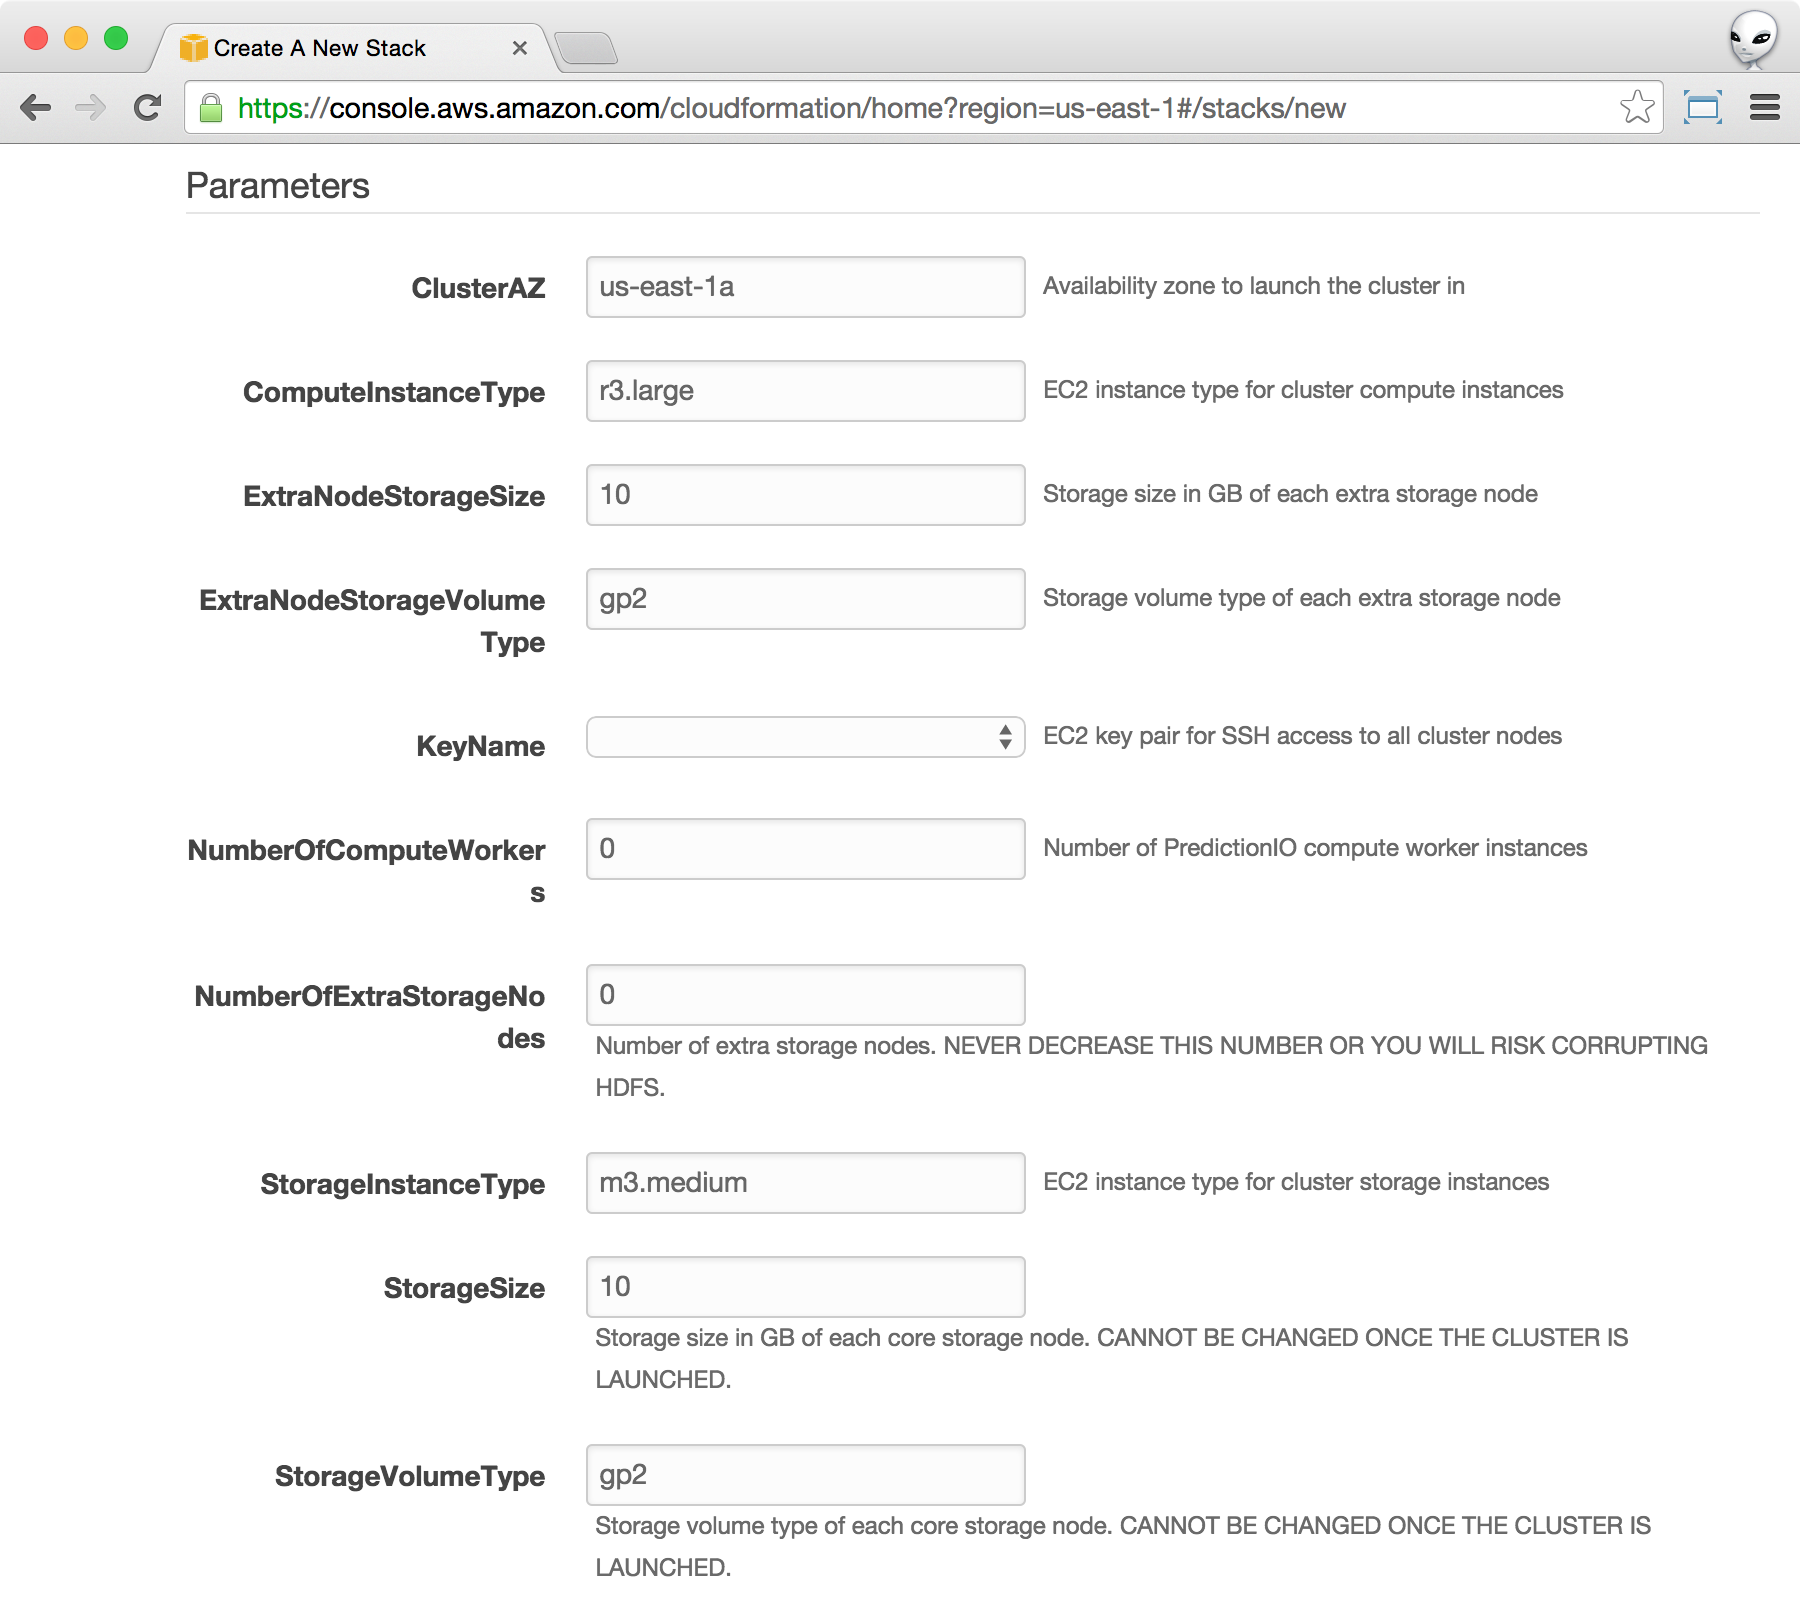
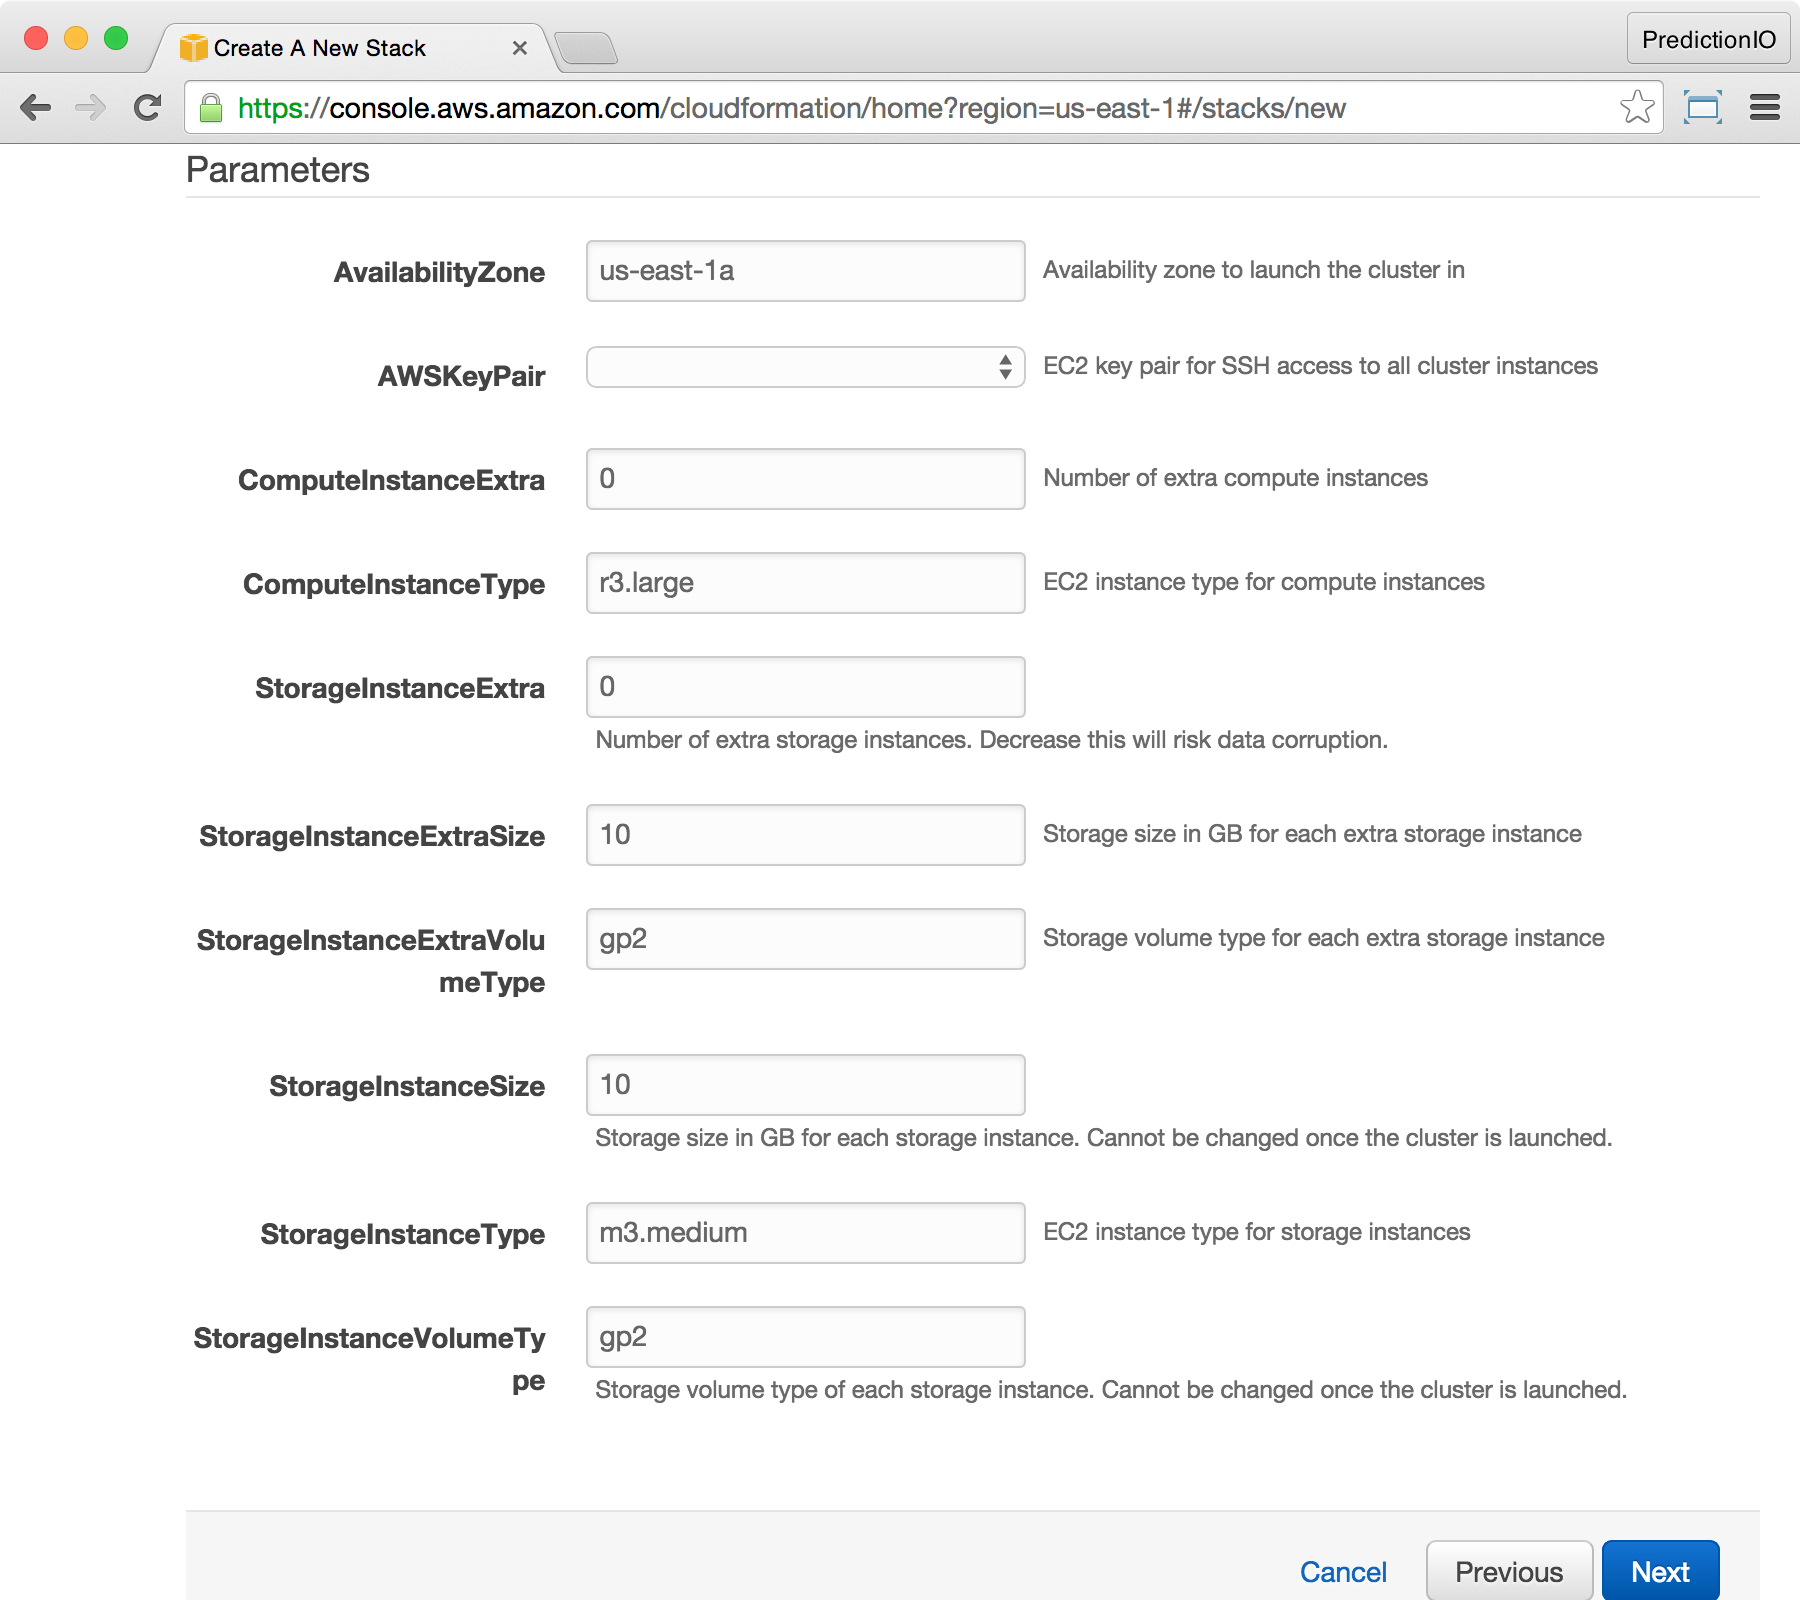
Add scaling cluster instructions

diff --git a/docs/manual/source/production/deploy-cloudformation.html.md b/docs/manual/source/production/deploy-cloudformation.html.md
@@ -9,7 +9,7 @@ You can scale PredictionIO on AWS with [CloudFormation](http://aws.amazon.com/cl
 ###  Instances
 
 The PredictionIO CloudFormation stack creates two types of instance: **compute
-and storage**. By default, the stack will launch **1 compute Instance and 3 Storage instances**. 
+and storage**. By default, the stack will launch **1 compute Instance and 3 Storage instances**.
 
 The compute instance acts as Spark master. You can launch extra compute instances by updating the stack. They will join the master and become slave compute instances as Spark workers. The extra compute instances are fully elastic and can be increased or decreased at anytime.
 
@@ -68,7 +68,7 @@ Click **Next** when you are done.
 
 ### Specify Stack Parameters
 
-The next screen shows the stack parameters. You must enter your AWS SSH key pair. For the other parameters, you can change them to meet your needs or simply use the default values. 
+The next screen shows the stack parameters. You must enter your AWS SSH key pair. For the other parameters, you can change them to meet your needs or simply use the default values.
 
 
 ![Stack Parameters](/images/cloudformation/cf-04.png)
@@ -183,3 +183,103 @@ start](/templates/recommendation/quickstart/) with a few twists.
    local machine. The Spark master URL must match exactly the one shown on its
    web UI. Repeat the same steps for subsection **Deploying**, which will
    create an Engine Server backed by the compute cluster.
+
+## Scaling the Cluster
+
+As your data size and/or audience grow, you may need to scale out your cluster
+to handle more workload, or decrease turnaround time. In this section, we will
+provide some general guidelines about when and how to scale your cluster with
+CloudFormation.
+
+### Scaling Compute Instances
+
+You may want to scale your compute instances when the turnaround time of
+`pio train` increases, or when the turnaround time of querying an engine server
+launched by `pio deploy` increases. Another way to look at whether you need
+additional computation power is to look at the Spark Master web UI (shown
+previously in the **Verify Compute Instances** section above).
+
+Notice that for compute instances, you can increase or decrease the
+number of extra compute instances as much as you like (within bounds of AWS EC2
+limits).
+
+Let us begin by adding 2 extra compute instances. At the CloudFormation console,
+right click on the cluster stack and click on **Update Stack**.
+
+![Updating Stack to Add Extra Compute
+Instances](/images/cloudformation/compute-1.png)
+
+At the **Select Template** screen, make sure **Use existing template** is
+picked, then click **Next**.
+
+At the **Specify Parameters** screen, increase the value of
+**ComputeInstanceExtra** to **2**, then click **Next**.
+
+![Adding 2 Extra Compute Instances](/images/cloudformation/compute-2.png)
+
+At the **Options** screen, leave everything unchanged, and click **Next**.
+
+At the **Review** screen, make sure **ComputeInstanceExtra** is now updated to
+**2**. Finish by clicking **Update**.
+
+![Review Changes of Adding Extra Compute
+Instances](/images/cloudformation/compute-3.png)
+
+You will be brought back to the CloudFormation console. You should see the
+stack status changed to **UPDATE_IN_PROGRESS**.
+
+![Adding Extra Compute Instances In
+Progress](/images/cloudformation/compute-4.png)
+
+Once the status become **UPDATE_COMPLETED**, you will have 2 extra compute
+instances. Notice that during the update, your cluster is still functional and
+any existing work will not be affected (existing work might be affected if you
+are downscaling).
+
+### Scaling Storage Instances
+
+You scale your storage instances when you are about to run out of space. By
+looking at the Hadoop NameNode web UI (shown previously in the **Verify Storage
+Instances** section above), it is obvious whether you are approaching storage
+limits or not.
+
+Notice that for storage instances, you can only increase the number of extra
+storage instances (within bounds of AWS EC2 limits).
+
+Let us begin by adding 2 extra storage instances. At the CloudFormation console,
+right click on the cluster stack and click on **Update Stack**.
+
+![Updating Stack to Add Extra Storage
+Instances](/images/cloudformation/compute-1.png)
+
+At the **Select Template** screen, make sure **Use existing template** is picked,
+then click **Next**.
+
+At the **Specify Parameters** screen, increase the value of
+**StorageInstanceExtra** to **2**, and set the value of
+**StorageInstanceExtraSize** to **100**, then click **Next**. Notice that
+whenever you add an extra storage instance, you can change its size to a new
+value. The new size will not affect existing storage instances and your data
+will be safe.
+
+![Adding 2 Extra Storage Instances](/images/cloudformation/storage-1.png)
+
+At the **Options** screen, leave everything unchanged, and click **Next**.
+
+At the **Review** screen, make sure **StorageInstanceExtra** is now updated to
+**2**, and **StorageInstanceExtraSize** is updated to **100**. Finish by
+clicking **Update**.
+
+![Review Changes of Adding Extra Storage
+Instances](/images/cloudformation/storage-2.png)
+
+You will be brought back to the CloudFormation console. You should see the
+stack status changed to **UPDATE_IN_PROGRESS**.
+
+![Adding Extra Compute Instances In
+Progress](/images/cloudformation/compute-4.png)
+
+Once the status become **UPDATE_COMPLETED**, you will have 2 extra storage
+instances. Notice that during the update, your cluster is still functional and
+any existing work will not be affected (existing work might be affected if you
+are downscaling).
